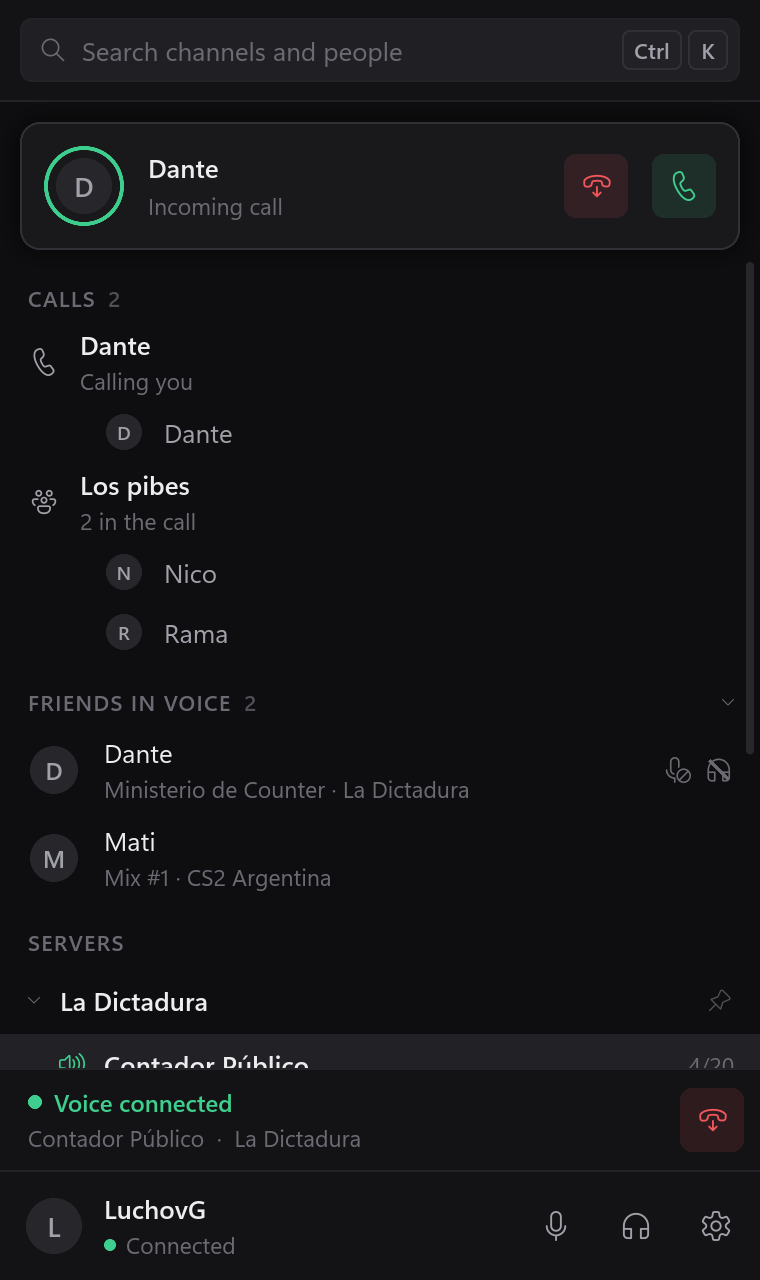
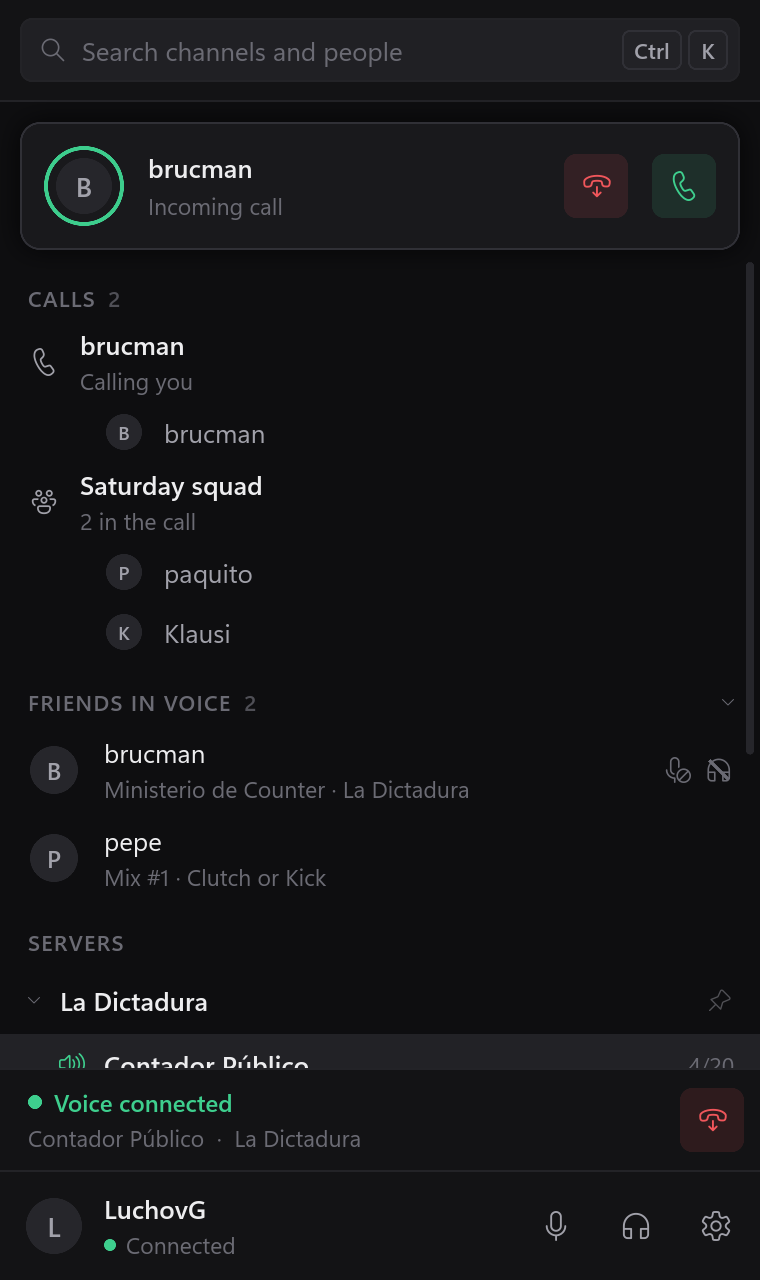
Use invented English names in the demo
Apart from the La Dictadura server, the demo's servers, channels and people
are now made up and in English, and the screenshots and GIF are retaken
with them.

diff --git a/app/src/demo.rs b/app/src/demo.rs
@@ -30,7 +30,7 @@ pub fn settings() -> bool {
 
 /// What `BARDO_DEMO=search` types into the search field.
 pub fn search() -> Option<&'static str> {
-    std::env::var_os("BARDO_DEMO").is_some_and(|value| value == "search").then_some("cr")
+    std::env::var_os("BARDO_DEMO").is_some_and(|value| value == "search").then_some("mix")
 }
 
 pub fn tour() -> bool {
@@ -65,15 +65,15 @@ pub fn tour_script() -> Vec<(TourStep, Duration)> {
     let ms = Duration::from_millis;
     vec![
         (TourStep::Snapshot(Box::new(base.clone())), ms(1000)),
-        (joined(&[(120, "Nico")]), ms(900)),
-        (joined(&[(120, "Nico"), (121, "Rama")]), ms(900)),
-        (TourStep::Speaking(&[120]), ms(900)),
+        (joined(&[(140, "paquito")]), ms(900)),
+        (joined(&[(140, "paquito"), (141, "SchnitzelLord")]), ms(900)),
+        (TourStep::Speaking(&[140]), ms(900)),
         (TourStep::Speaking(&[101]), ms(700)),
-        (TourStep::Speaking(&[101, 121]), ms(900)),
+        (TourStep::Speaking(&[101, 141]), ms(900)),
         (TourStep::Speaking(&[]), ms(1000)),
-        (TourStep::Search("m"), ms(250)),
-        (TourStep::Search("ma"), ms(250)),
-        (TourStep::Search("mat"), ms(2000)),
+        (TourStep::Search("p"), ms(250)),
+        (TourStep::Search("pe"), ms(250)),
+        (TourStep::Search("pep"), ms(2000)),
         (TourStep::Search(""), ms(1200)),
     ]
 }
@@ -91,7 +91,7 @@ const OUR_CHANNEL: Id = Id(10);
 const FANTA_DM: Id = Id(62);
 
 /// We join, people come and go (two at once, which must not stack up), our own cues play, then we
-/// call Fanta, who answers after a few rings and hangs up.
+/// call fantaakd, who answers after a few rings and hangs up.
 pub fn sound_script() -> Vec<Step> {
     let base = snapshot();
     let with_channel = |update: &dyn Fn(&mut Vec<Participant>)| {
@@ -105,14 +105,14 @@ pub fn sound_script() -> Vec<Step> {
         name: name.to_owned(),
         ..base.guilds[0].channels[0].participants[1].clone()
     };
-    let nico = with_channel(&|people| people.push(newcomer(120, "Nico")));
+    let paquito = with_channel(&|people| people.push(newcomer(140, "paquito")));
     let crowd = with_channel(&|people| {
-        people.push(newcomer(120, "Nico"));
-        people.push(newcomer(121, "Rama"));
-        people.push(newcomer(122, "Mati"));
+        people.push(newcomer(140, "paquito"));
+        people.push(newcomer(141, "SchnitzelLord"));
+        people.push(newcomer(142, "Jürgen"));
     });
     let fanta_left = with_channel(&|people| {
-        people.extend([newcomer(120, "Nico"), newcomer(121, "Rama"), newcomer(122, "Mati")]);
+        people.extend([newcomer(140, "paquito"), newcomer(141, "SchnitzelLord"), newcomer(142, "Jürgen")]);
         people.retain(|p| p.user_id != Id(101));
     });
 
@@ -123,7 +123,7 @@ pub fn sound_script() -> Vec<Step> {
             guild_id: None,
             channel_id: FANTA_DM,
             guild_name: "Call".to_owned(),
-            channel_name: "Fanta".to_owned(),
+            channel_name: "fantaakd".to_owned(),
             status: VoiceStatus::Connected,
             self_mute: false,
             self_deaf: false,
@@ -132,7 +132,7 @@ pub fn sound_script() -> Vec<Step> {
         participants.extend(others.iter().map(|&(id, name)| newcomer(id, name)));
         snapshot.calls.push(CallView {
             channel_id: FANTA_DM,
-            name: "Fanta".to_owned(),
+            name: "fantaakd".to_owned(),
             group: false,
             participants,
             ringing_me: false,
@@ -144,7 +144,7 @@ pub fn sound_script() -> Vec<Step> {
     let mut steps = vec![
         Step::Sound(Sound::Join),
         Step::Snapshot(Box::new(base.clone())),
-        Step::Snapshot(Box::new(nico)),
+        Step::Snapshot(Box::new(paquito)),
         Step::Snapshot(Box::new(crowd)),
         Step::Snapshot(Box::new(fanta_left)),
         Step::Wait,
@@ -172,7 +172,7 @@ pub fn sound_script() -> Vec<Step> {
         Step::Wait,
         Step::Wait,
         Step::Wait,
-        Step::Snapshot(Box::new(call(&[(101, "Fanta")], false))),
+        Step::Snapshot(Box::new(call(&[(101, "fantaakd")], false))),
         Step::Wait,
         Step::Snapshot(Box::new(call(&[], false))),
         Step::Wait,
@@ -226,14 +226,14 @@ pub fn snapshot() -> Snapshot {
             channels: vec![
                 limited(10, "Contador Público", 20, vec![
                     Participant { is_me: true, ..participant(100, "LuchovG") },
-                    friend(101, "Fanta"),
-                    Participant { server_mute: true, ..friend(102, "Santijaja") },
+                    friend(101, "fantaakd"),
+                    Participant { server_mute: true, ..friend(102, "netanyahu") },
                     Participant { streaming: true, ..friend(103, "Titino") },
                 ]),
                 limited(11, "Ministerio de Counter", 20, vec![Participant {
                     self_deaf: true,
                     self_mute: true,
-                    ..friend(104, "Dante")
+                    ..friend(104, "brucman")
                 }]),
                 limited(12, "Campo prendido", 67, Vec::new()),
                 channel(13, "Escuela", Vec::new()),
@@ -242,22 +242,22 @@ pub fn snapshot() -> Snapshot {
         },
         GuildView {
             id: Id(2),
-            name: "GTA MONEY DROPS!".to_owned(),
+            name: "Schnitzel Squad".to_owned(),
             channels: vec![
-                channel(20, "Social 1", vec![stranger(110, "fanta"), stranger(111, "xX_Drop_Xx")]),
-                channel(21, "Social 2", Vec::new()),
-                limited(22, "Crew 1", 4, Vec::new()),
-                limited(23, "Crew 2", 4, Vec::new()),
+                channel(20, "Lounge", vec![stranger(110, "Klausi"), stranger(111, "mic_off_again")]),
+                channel(21, "Beer garden", Vec::new()),
+                limited(22, "Raid 1", 4, Vec::new()),
+                limited(23, "Raid 2", 4, Vec::new()),
             ],
         },
         GuildView {
             id: Id(3),
-            name: "CS2 Argentina".to_owned(),
+            name: "Clutch or Kick".to_owned(),
             channels: (0..12)
                 .map(|n| {
                     let people = match n {
-                        0 => vec![stranger(120, "Nico"), stranger(121, "Rama"), friend(122, "Mati")],
-                        3 => vec![stranger(123, "pibe_awp"), stranger(124, "elcapo")],
+                        0 => vec![stranger(120, "Hans_AWP"), stranger(121, "Wurstmeister"), friend(122, "pepe")],
+                        3 => vec![stranger(123, "touchgrass"), stranger(124, "Kevin.exe")],
                         _ => Vec::new(),
                     };
                     limited(30 + n, &format!("Mix #{}", n + 1), 5, people)
@@ -266,8 +266,8 @@ pub fn snapshot() -> Snapshot {
         },
         GuildView {
             id: Id(4),
-            name: "Rust en Español".to_owned(),
-            channels: vec![channel(40, "Charla", Vec::new()), channel(41, "Pair programming", Vec::new())],
+            name: "Rustaceans".to_owned(),
+            channels: vec![channel(40, "General", Vec::new()), channel(41, "Pair programming", Vec::new())],
         },
     ];
 
@@ -294,25 +294,30 @@ pub fn snapshot() -> Snapshot {
     let calls = vec![
         CallView {
             channel_id: Id(60),
-            name: "Dante".to_owned(),
+            name: "brucman".to_owned(),
             group: false,
-            participants: vec![Participant { moderation: Moderation::default(), ..friend(104, "Dante") }],
+            participants: vec![Participant { moderation: Moderation::default(), ..friend(104, "brucman") }],
             ringing_me: std::env::var_os("BARDO_DEMO").is_some_and(|value| value == "call"),
             ringing_others: false,
         },
         CallView {
             channel_id: Id(61),
-            name: "Los pibes".to_owned(),
+            name: "Saturday squad".to_owned(),
             group: true,
-            participants: vec![stranger(120, "Nico"), stranger(121, "Rama")],
+            participants: vec![stranger(140, "paquito"), stranger(110, "Klausi")],
             ringing_me: false,
             ringing_others: false,
         },
     ];
     let private_channels = vec![
-        PrivateChannelView { id: Id(60), name: "Dante".to_owned(), group: false, recipients: vec![Id(104)] },
-        PrivateChannelView { id: Id(61), name: "Los pibes".to_owned(), group: true, recipients: vec![Id(120), Id(121)] },
-        PrivateChannelView { id: Id(62), name: "Fanta".to_owned(), group: false, recipients: vec![Id(101)] },
+        PrivateChannelView { id: Id(60), name: "brucman".to_owned(), group: false, recipients: vec![Id(104)] },
+        PrivateChannelView {
+            id: Id(61),
+            name: "Saturday squad".to_owned(),
+            group: true,
+            recipients: vec![Id(140), Id(110)],
+        },
+        PrivateChannelView { id: Id(62), name: "fantaakd".to_owned(), group: false, recipients: vec![Id(101)] },
     ];
 
     Snapshot {

diff --git a/README.md b/README.md
@@ -23,7 +23,7 @@
 </p>
 
 <p align="center">
-  <img src="docs/images/tour.gif" width="380" alt="Two people join a voice channel and talk, then a search for Mati">
+  <img src="docs/images/tour.gif" width="380" alt="Two people join a voice channel and talk, then a search for pepe">
 </p>
 
 The Discord app is a whole browser. If all you use it for is talking with friends while you play,
